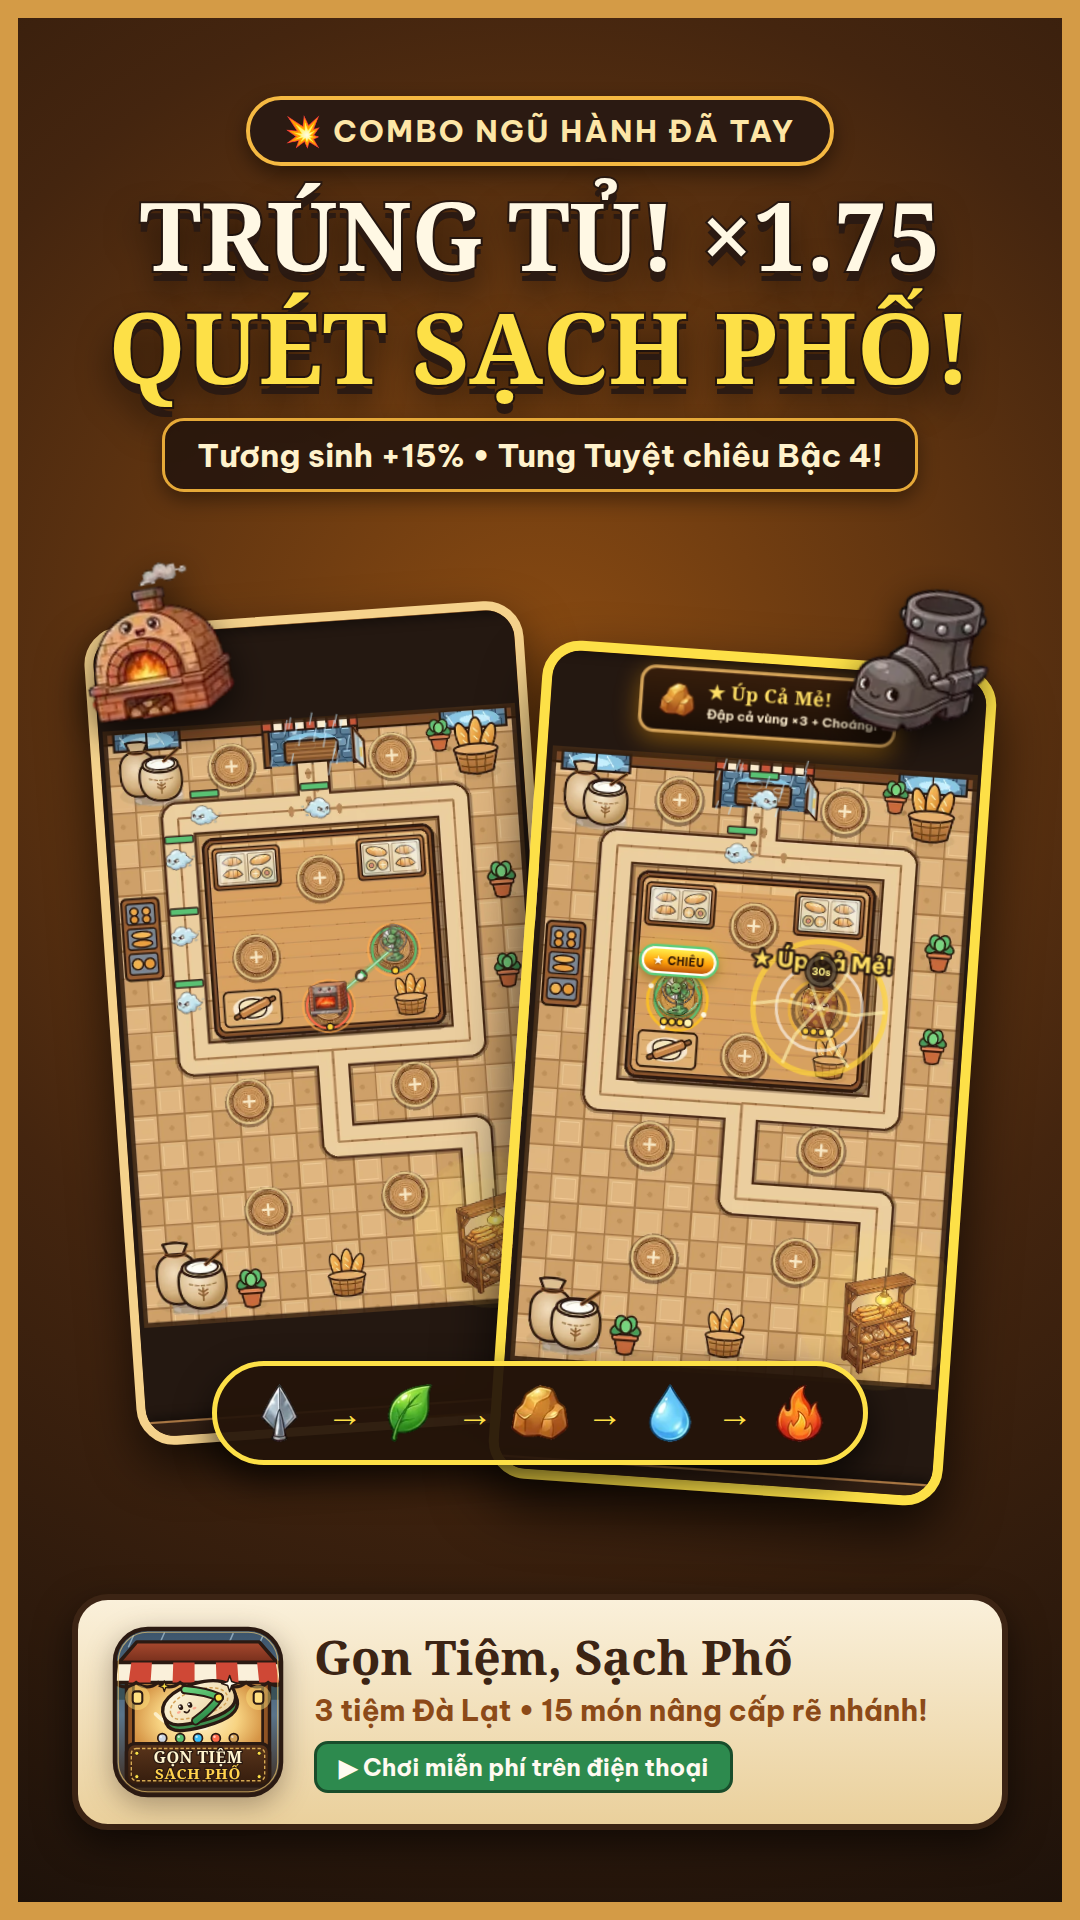
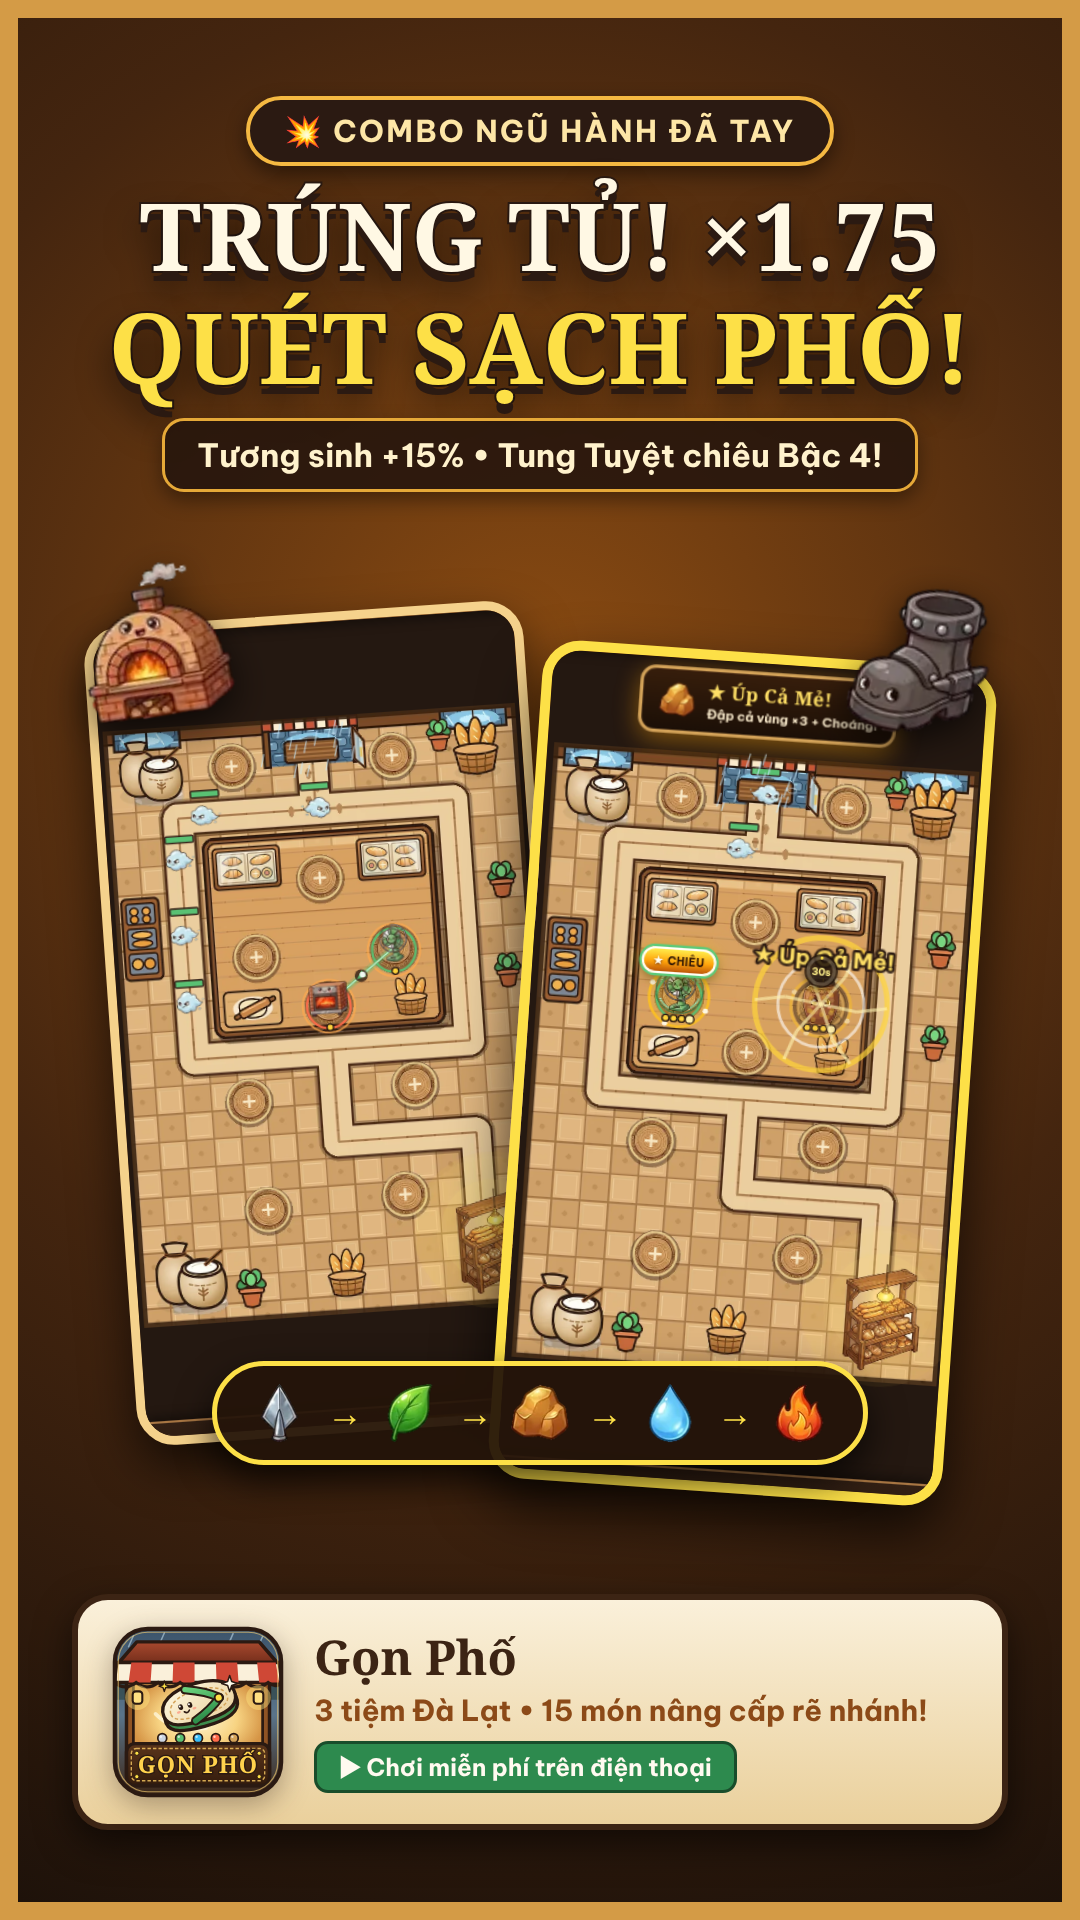
Đổi tên game thành Gọn Phố; bổ sung nguồn + mức tin cậy cho 26 tiệm Đà Lạt
Claude-Session: https://claude.ai/code/session_01X21C3yKyKWkBxdp7Y7iVUK

diff --git a/src/game/brandLogo.ts b/src/game/brandLogo.ts
@@ -1,14 +1,14 @@
 const INK = '#2b1a12';
 
 export interface BrandLogoOptions {
-  /** Hiện chữ "GỌN TIỆM / SẠCH PHỐ" trên biển gỗ (tắt cho favicon 32×32) */
+  /** Hiện chữ "GỌN PHỐ" trên biển gỗ (tắt cho favicon 32×32) */
   showText?: boolean;
   /** Bo góc nền vuông (mặc định 92/512 cho icon app) */
   cornerRadius?: number;
 }
 
 /**
- * Logo bản vuông chính thức "Gọn Tiệm, Sạch Phố" (viewBox 512×512):
+ * Logo bản vuông chính thức "Gọn Phố" (viewBox 512×512):
  * Mái hiên sọc đỏ-kem tiệm Đà Lạt mùa mưa, ánh đèn vàng ấm,
  * chiếc dép tông hoạt hình đặc trưng, 5 hạt Ngũ Hành & biển chữ Việt rõ nét.
  */
@@ -35,40 +35,25 @@ export function renderBrandLogoSvg(opts: BrandLogoOptions = {}): string {
         <circle cx="-178" cy="34" r="6" fill="#fde047" stroke="${INK}" stroke-width="2.5"/>
         <circle cx="178" cy="34" r="6" fill="#fde047" stroke="${INK}" stroke-width="2.5"/>
 
-        <!-- Dòng 1: GỌN TIỆM -->
+        <!-- Tên game: GỌN PHỐ (đổi tên 23/11/2026) -->
         <text
           x="0"
-          y="-7"
+          y="22"
           text-anchor="middle"
           font-family="'Noto Serif', Georgia, serif"
           font-weight="700"
-          font-size="47"
-          letter-spacing="1.5"
-          fill="#fff5cf"
-          stroke="${INK}"
-          stroke-width="7"
-          paint-order="stroke fill"
-        >GỌN TIỆM</text>
-
-        <!-- Dòng 2: SẠCH PHỐ -->
-        <text
-          x="0"
-          y="40"
-          text-anchor="middle"
-          font-family="'Noto Serif', Georgia, serif"
-          font-weight="700"
-          font-size="44"
-          letter-spacing="2"
+          font-size="68"
+          letter-spacing="3"
           fill="#ffd24d"
           stroke="${INK}"
-          stroke-width="7"
+          stroke-width="8"
           paint-order="stroke fill"
-        >SẠCH PHỐ</text>
+        >GỌN PHỐ</text>
       </g>
     `
     : '';
 
-  return `<svg xmlns="http://www.w3.org/2000/svg" width="512" height="512" viewBox="0 0 512 512" role="img" aria-label="Logo Gọn Tiệm, Sạch Phố">
+  return `<svg xmlns="http://www.w3.org/2000/svg" width="512" height="512" viewBox="0 0 512 512" role="img" aria-label="Logo Gọn Phố">
   <defs>
     <clipPath id="logoClip">
       <rect x="14" y="14" width="484" height="484" rx="${rx}"/>
@@ -153,7 +138,7 @@ export function renderBrandLogoSvg(opts: BrandLogoOptions = {}): string {
         : ''
     }
 
-    <!-- Chiếc Dép Tông hoạt hình biểu tượng của Gọn Tiệm -->
+    <!-- Chiếc Dép Tông hoạt hình biểu tượng của Gọn Phố -->
     <g transform="${flipFlopTransform}">
       <!-- Vệt sáng vèo cong phía sau dép -->
       <path d="M-126 30 Q-72 86 24 72" fill="none" stroke="#fff9e2" stroke-width="11" stroke-linecap="round" opacity="0.72"/>

diff --git a/index.html b/index.html
@@ -6,14 +6,14 @@
       name="viewport"
       content="width=device-width, initial-scale=1.0, maximum-scale=1.0, user-scalable=no, viewport-fit=cover"
     />
-    <title>Gọn Tiệm, Sạch Phố — Ngũ hành giữ tiệm</title>
+    <title>Gọn Phố — Ngũ hành giữ tiệm</title>
     <meta
       name="description"
       content="Trò chơi thủ thành Ngũ Hành giữ tiệm trên con phố dốc Đà Lạt mùa mưa. Đặt 5 món đồ đúng vòng tương khắc & tương sinh, chơi ngay trên điện thoại không cần tải!"
     />
     <meta property="og:type" content="website" />
     <meta property="og:locale" content="vi_VN" />
-    <meta property="og:title" content="Gọn Tiệm, Sạch Phố — Ngũ hành giữ tiệm" />
+    <meta property="og:title" content="Gọn Phố — Ngũ hành giữ tiệm" />
     <meta
       property="og:description"
       content="Giữ sạch Tiệm Giày, Tiệm Bánh, Tiệm Hoa dọc con phố dốc Đà Lạt mùa mưa! Chơi thủ thành Ngũ Hành miễn phí ngay trên điện thoại."
@@ -22,7 +22,7 @@
     <meta property="og:image:width" content="1200" />
     <meta property="og:image:height" content="630" />
     <meta name="twitter:card" content="summary_large_image" />
-    <meta name="twitter:title" content="Gọn Tiệm, Sạch Phố — Ngũ hành giữ tiệm" />
+    <meta name="twitter:title" content="Gọn Phố — Ngũ hành giữ tiệm" />
     <meta
       name="twitter:description"
       content="Thủ thành Ngũ Hành giữa phố nhỏ Đà Lạt mùa mưa — Trúng tủ ×1.75, Tương sinh & Trang bị chủ tiệm!"
@@ -34,7 +34,7 @@
     <link rel="apple-touch-icon" sizes="180x180" href="./icons/apple-touch-icon-180.png" />
     <link rel="manifest" href="./manifest.webmanifest" />
     <meta name="apple-mobile-web-app-capable" content="yes" />
-    <meta name="apple-mobile-web-app-title" content="Gọn Tiệm" />
+    <meta name="apple-mobile-web-app-title" content="Gọn Phố" />
     <script>
       // Claude: lưu sẵn game để chơi không cần mạng (bỏ qua khi chạy thử tự động, trừ khi có ?sw=1)
       if ('serviceWorker' in navigator && location.port !== '5173' && (!navigator.webdriver || location.search.indexOf('sw=1') >= 0)) {

diff --git a/src/core/tdDefinitions.ts b/src/core/tdDefinitions.ts
@@ -19,7 +19,7 @@ import type { EnemyId } from './types';
 export const SELL_REFUND_RATE = 0.7;
 
 /**
- * Định nghĩa 5 món giữ tiệm Màn 1 "Tiệm Giày Hẻm Dốc" (chủ đề "Gọn Tiệm, Sạch Phố — Ngũ hành giữ tiệm").
+ * Định nghĩa 5 món giữ tiệm Màn 1 "Tiệm Giày Hẻm Dốc" (chủ đề "Gọn Phố — Ngũ hành giữ tiệm").
  * Tên chính thức & phân bổ Ngũ Hành đã được Claude duyệt ("NAMES GỌN TIỆM: ĐỒNG Ý").
  * Lưu ý: giữ nguyên 5 khoá nội bộ (wood_tower, metal_tower, water_tower, fire_tower, earth_tower)
  * theo thứ tự 4 món đánh + 1 món hỗ trợ để tương thích với các script mô phỏng trong docs/review/.

diff --git a/src/scenes/TitleScene.ts b/src/scenes/TitleScene.ts
@@ -246,7 +246,7 @@ export class TitleScene extends Phaser.Scene {
           <span>CON PHỐ DỐC ĐÀ LẠT • NGŨ HÀNH GIỮ TIỆM</span>
         </div>
 
-        <h1 class="td-title-heading">Gọn Tiệm, Sạch Phố</h1>
+        <h1 class="td-title-heading">Gọn Phố</h1>
         <p class="td-title-sub">Ngũ hành giữ tiệm</p>
         ${
           hasStreetChampionBadge

diff --git a/docs/REVIEW_LOG.md b/docs/REVIEW_LOG.md
@@ -360,3 +360,7 @@ NÉT VẼ: ĐỒNG Ý (anh Kha duyệt 22/11/2026, theo 3 hình mẫu trong docs
 - Đợt 8: 7 xe (hiện ở chỗ chọn xe, nút chiêu xe, màn kết quả). Đợt 9: đồ dọn phố. Đợt 10: 5 loại món Chợ Bến Thành. Kho Spark: 25 loại món, 42 quái, 26 mặt tiền, 7 xe.
 - Rà: 73/73 nền trong suốt. Cần vẽ lại: mon_don_bao_cat_b3a (giống máy nướng bánh mì); mat_tien_cafe_som, mat_tien_kem_bo có chữ. Ghi chú nhẹ: tiem_vang b2≈b3b, trai_cay b1≈b3a.
 - `npm test` 78/78, e2e 17/17.
+
+## 23/11/2026 — Đổi tên Gọn Phố + nguồn cho 26 tiệm Đà Lạt (Claude)
+- Tên game: Gọn Phố (logo 1 dòng "GỌN PHỐ", icon, og-image, manifest, tiêu đề). Bản lưu người chơi giữ nguyên.
+- 26 tiệm 3 phố Đà Lạt có `sources` + `confidence`: 12 chắc, 14 nên kiểm, 0 đã đóng. Đáng chú ý: giặt sấy không thấy trên Phan Đình Phùng (có ở 39 Trương Công Định); bánh mì chảo, bánh trứng không thấy trên Phố Cà Phê; quán sân thượng ghi ở 1 Lê Đại Hành có nguồn nói đã đóng → cần anh Kha quyết giữ hay đổi.

diff --git a/docs/PLAN.md b/docs/PLAN.md
@@ -80,3 +80,5 @@ Game kiếm hiệp, không cài AI thật; câu chuyện kể lại thời đạ
 
 **Xe đi phố (anh Kha chốt 23/11):** xe là phương tiện, không phải trang bị ngũ hành — 1 ô riêng ngoài vòng 10 món, chỉ có tác dụng khi ra phố (Trận trùm phố đầu + mọi màn trên phố thật). Mỗi xe 1 tác dụng luôn bật + 1 chiêu bấm 1 lần mỗi màn. 7 xe: Đi Bộ, Xe Đạp, Xe Số, Xe Ga, Xe Điện, Xe Ba Gác, Xe Jeep. Nhận xe khi thắng lần đầu Trận trùm phố, tiệm thứ 5 và màn phố của mỗi phố thật. Luật: src/core/vehicles.ts.
 **Chia việc khi Antigravity hết lượt (23/11):** Spark vẽ toàn bộ hình; Claude làm cả giao diện (màn chọn tiệm, ô xe, ghép nền).
+
+**Đổi tên game (anh Kha chốt 23/11):** "Gọn Tiệm, Sạch Phố" → **Gọn Phố** (dòng phụ giữ "Ngũ hành giữ tiệm"). Khớp kênh Gọn. Đã đổi: màn hình chờ, màn chính, logo, biểu tượng app, ảnh chia sẻ link, tên khi cài ra màn hình điện thoại.

diff --git a/README.md b/README.md
@@ -1,4 +1,4 @@
-# Gọn Tiệm, Sạch Phố
+# Gọn Phố
 
 (Repo tên cũ giang-ho-ai.)
 
